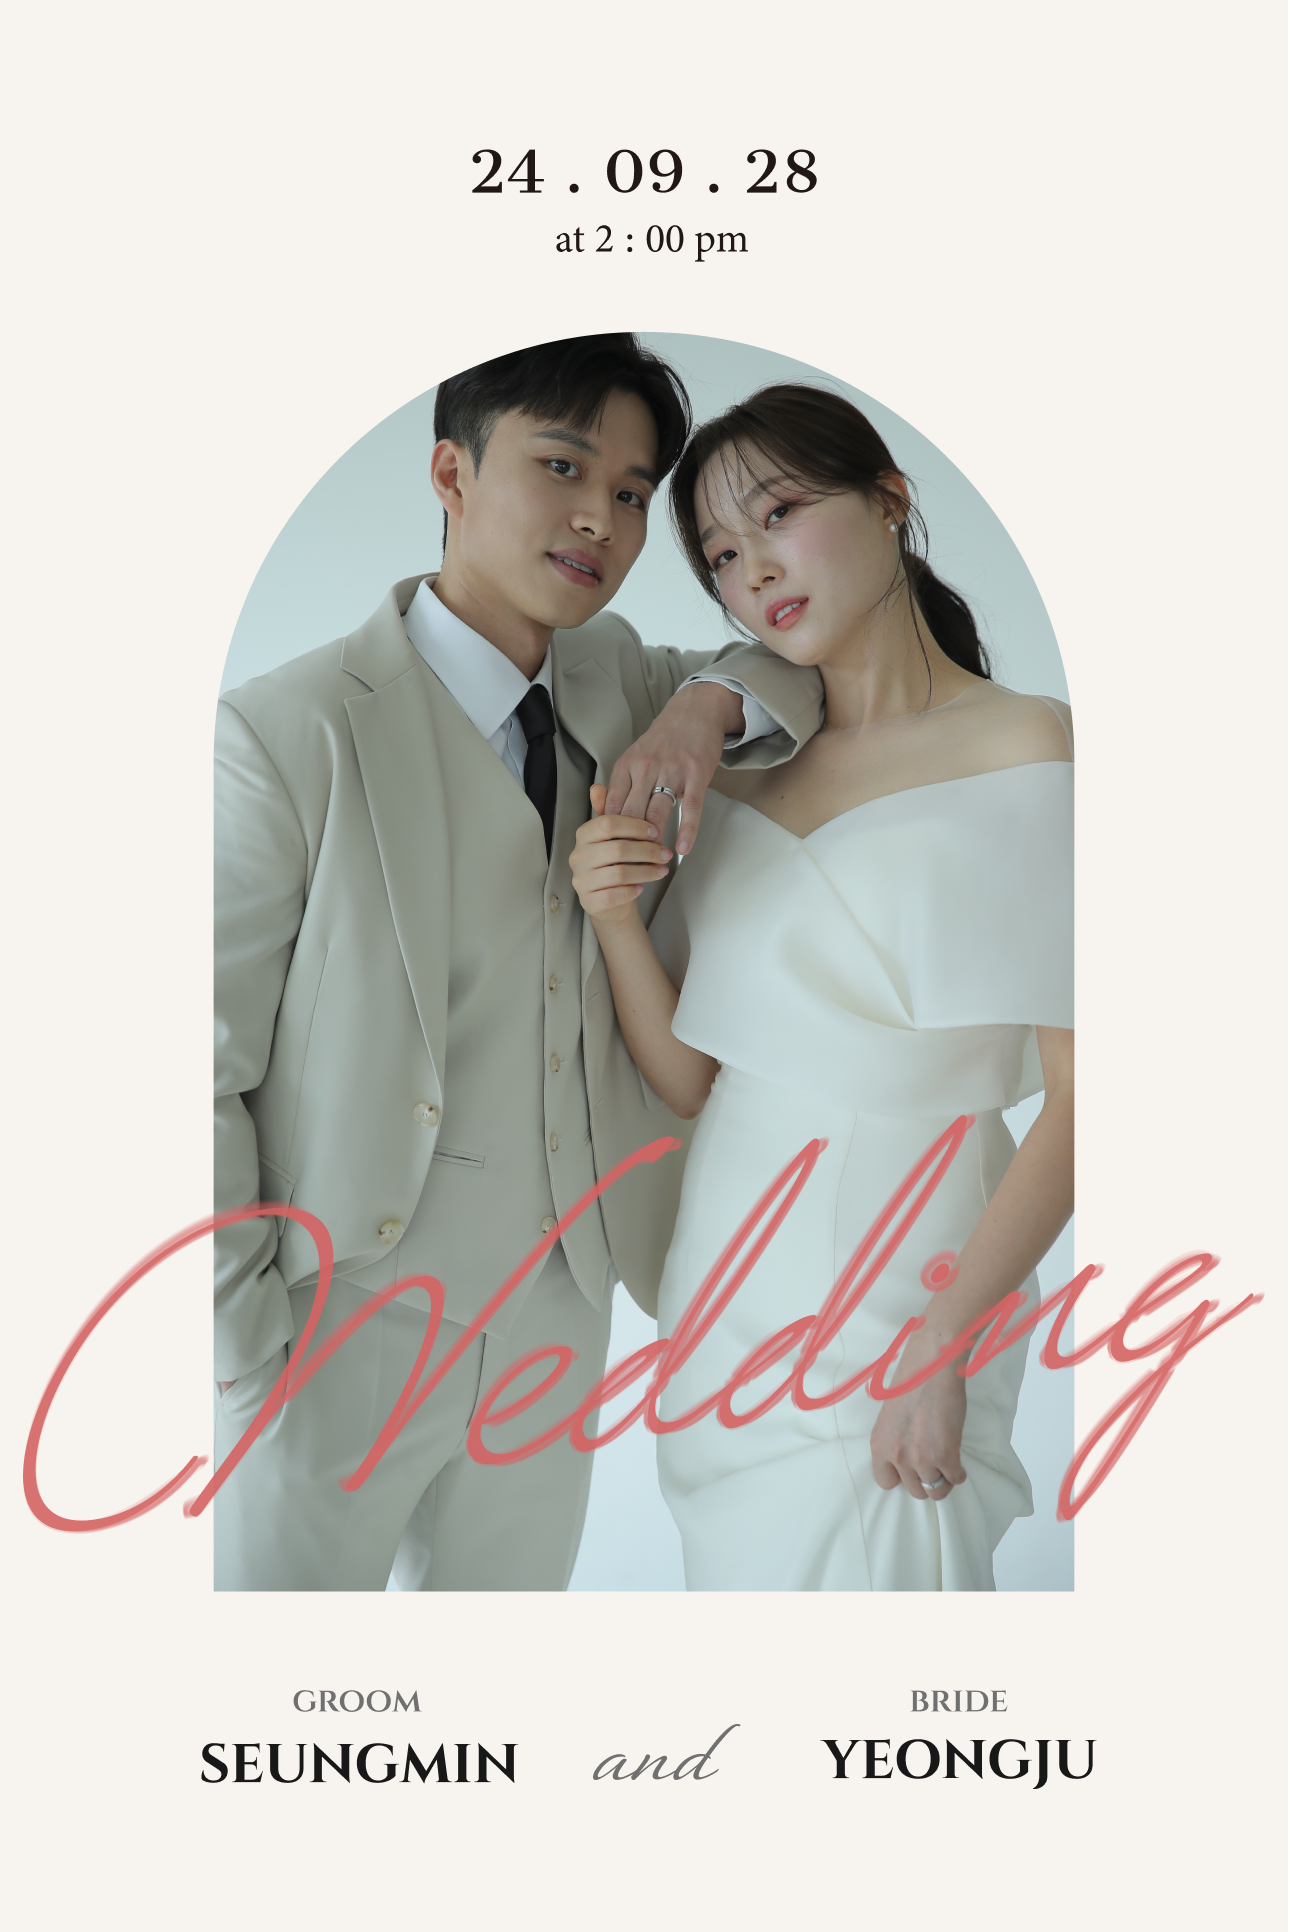
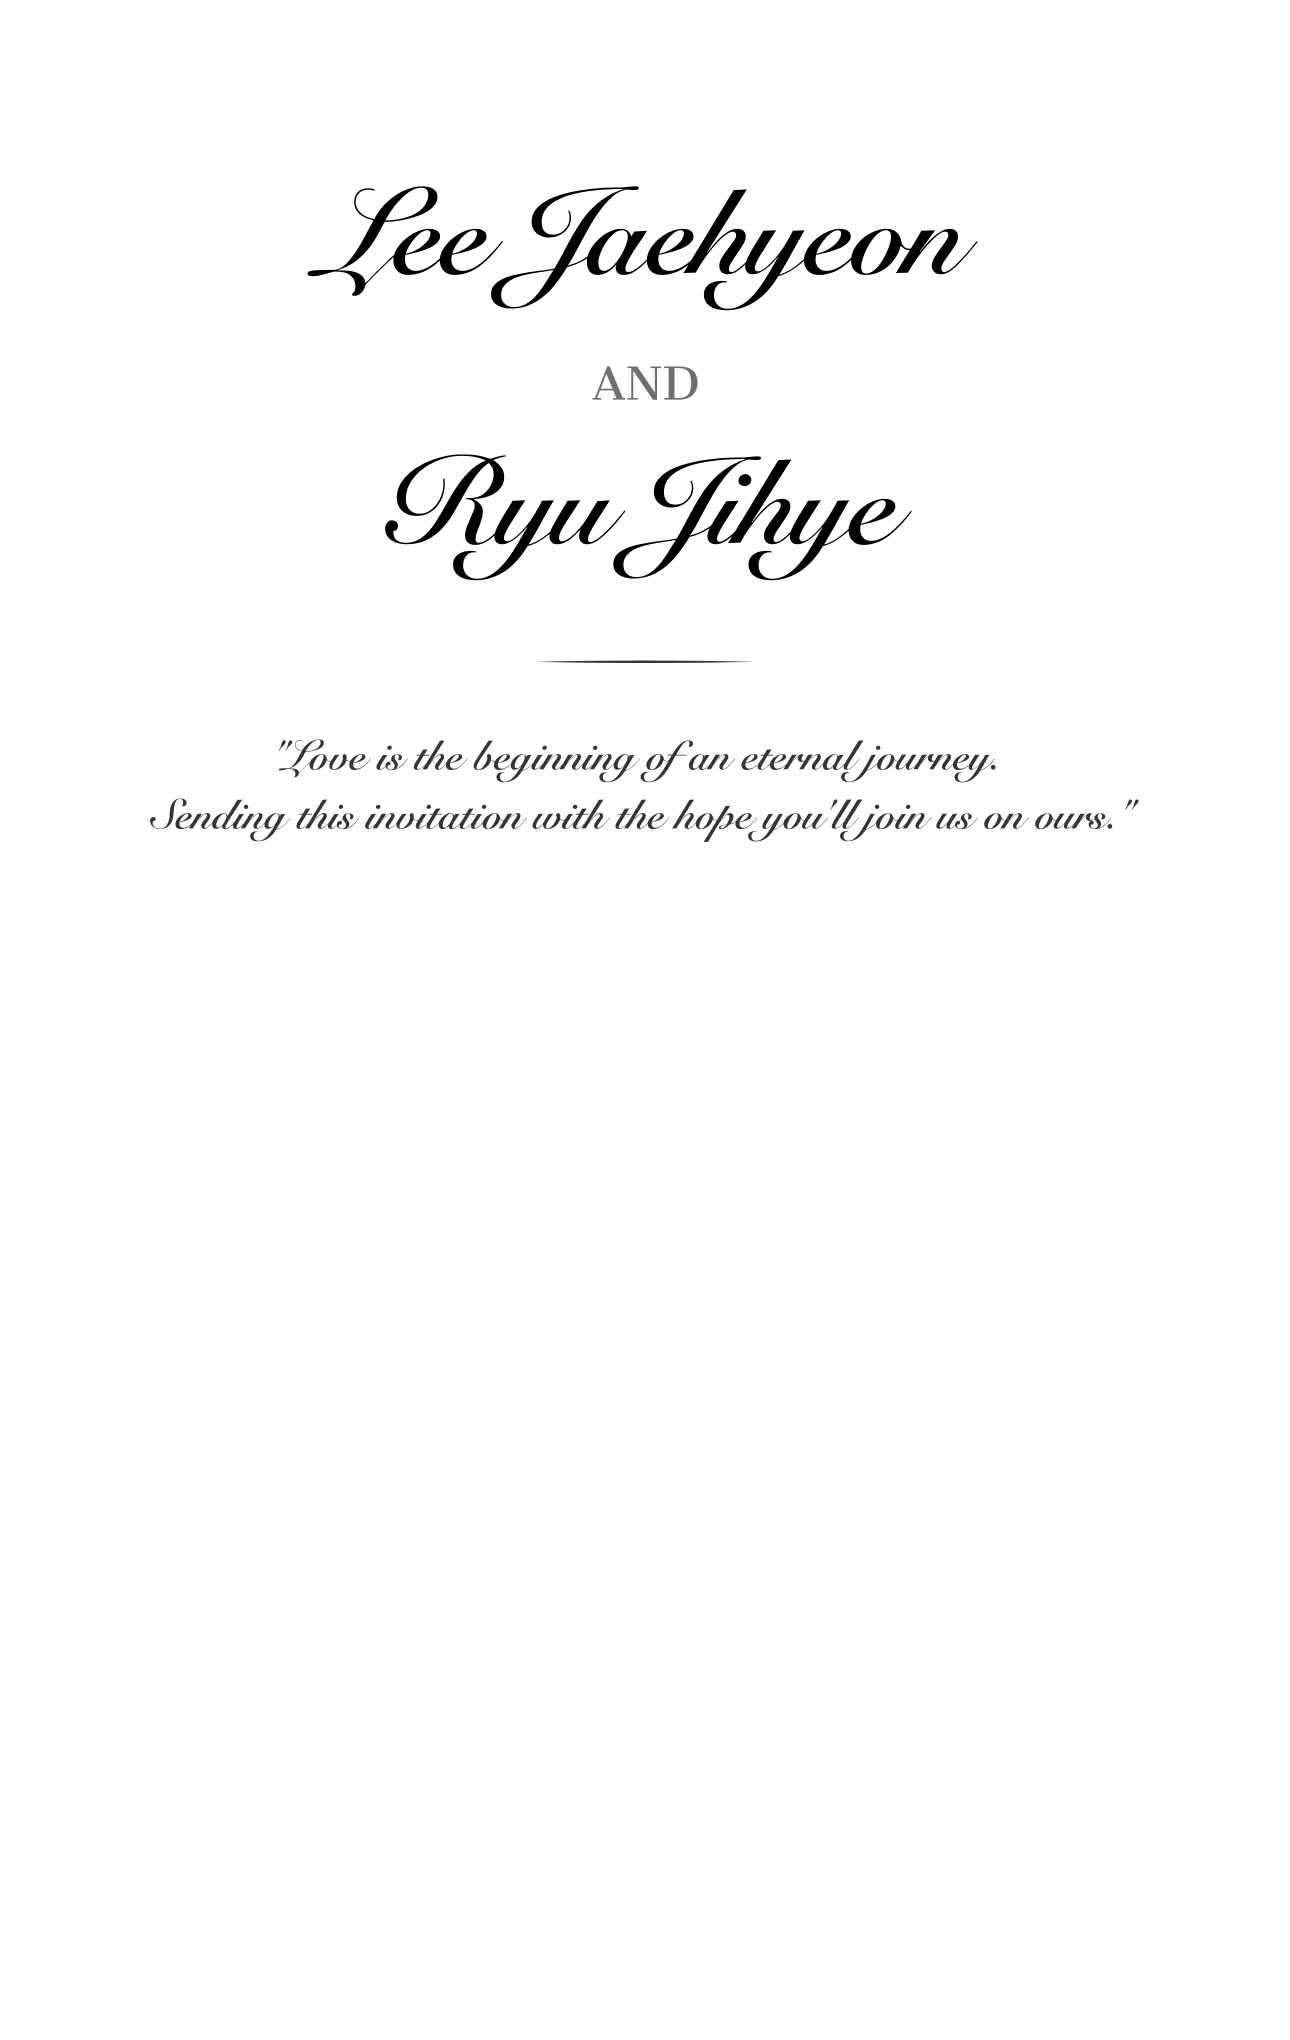
mo14

diff --git a/index.html b/index.html
@@ -5,19 +5,19 @@
   <meta charset="utf-8" />
   <link rel="icon" href="/img/heart_icon.png" />
   <meta name="viewport" content="width=device-width" />
-  <title>이재현 ♥ 박영주의 결혼식에 초대합니다.</title>
+  <title>이재현 ♥ 류지혜의 결혼식에 초대합니다.</title>
   <meta http-equiv="X-UA-Compatible" content="IE=edge, chrome=1" />
   <meta name="viewport"
     content="width=device-width,initial-scale=1.0,maximum-scale=1.0,minimum-scale=1.0,user-scalable=no,target-densitydpi=medium-dpi" />
   <meta name="robots" content="index,follow" />
   <meta name="googlebot" content="index,follow" />
   <meta name="description" content="결혼식에 초대합니다♡" />
-  <link rel="canonical" href="https://mo12.luvle.co.kr" />
-  <meta property="og:url" content="https://mo12.luvle.co.kr" />
-  <meta property="og:title" content="최승민 ♥ 박영주의 결혼식에 초대합니다." />
+  <link rel="canonical" href="https://mo14.luvle.co.kr" />
+  <meta property="og:url" content="https://mo14.luvle.co.kr" />
+  <meta property="og:title" content="이재현 ♥ 류지혜의 결혼식에 초대합니다." />
   <meta property="og:description" content="결혼식에 초대합니다♡" />
   <meta property="og:image" content="https://i.imgur.com/Id0xiK7.png" />
-  <meta property="og:site_name" content="최승민 ♥ 박영주의 결혼식에 초대합니다." />
+  <meta property="og:site_name" content="이재현 ♥ 류지혜의 결혼식에 초대합니다." />
   <script src="https://cdn.tailwindcss.com"></script>
   <link rel="stylesheet" type="text/css" href="style.css" />
   <link href="https://webfontworld.github.io/yangheeryu/GowunBatang.css" rel="stylesheet" />
@@ -85,16 +85,16 @@
               </div>
               <div style="line-height: 40px;">
                 <p id="parentInfo">
-                  <span style="font-size: large">최창순 · 김순희</span>
+                  <span style="font-size: large">이병권 · 하애경</span>
                   <span>
                     <span>의</span>
                     <span style="
                           font-size: large;
                           min-width: 3rem;
                           display: inline-block;
-                        ">아들</span>
+                        ">장남</span>
                   </span>
-                  <span style="font-size: large">최승민</span>
+                  <span style="font-size: large">이재현</span>
                   <span style="
                         font-size: large;
                         display: inline-block;
@@ -109,22 +109,22 @@
                     document
                       .getElementById("man-call-button")
                       .addEventListener("click", function () {
-                        var phoneNumber = "010-4931-4227";
+                        var phoneNumber = "010-8877-0196";
                         window.location.href = "tel:" + phoneNumber;
                       });
                   </script>
                 </p>
                 <p id="parentInfo">
-                  <span style="font-size: large">박형숙 · 김경미</span>
+                  <span style="font-size: large">류양열 · 김해숙</span>
                   <span>
                     <span>의</span>
                     <span style="
                           font-size: large;
                           min-width: 3rem;
                           display: inline-block;
-                        ">딸</span>
+                        ">장녀</span>
                   </span>
-                  <span style="font-size: large">박영주</span>
+                  <span style="font-size: large">류지혜</span>
                   <span style="
                         font-size: large;
                         display: inline-block;
@@ -139,7 +139,7 @@
                     document
                       .getElementById("woman-call-button")
                       .addEventListener("click", function () {
-                        var phoneNumber = "010-4046-4258";
+                        var phoneNumber = "010-9180-1690";
                         window.location.href = "tel:" + phoneNumber;
                       });
                   </script>
@@ -153,12 +153,12 @@
         <section id="gallerySection"> 
           <div id="galleryImages" class="gallery">
             <span style="
-            color: #D46363;
-            font-size: 10px;
+            color: #BDBDBD;
+            font-size: 12px;
             min-width: 3rem;
             display: inline-block;"><b>G A L L E R Y</b></span><br>
             <span style="
-            color: #655047;
+            color: #595959;
             font-size: 20px;
             min-width: 3rem;
             display: inline-block;"><b>우리의 순간</b></span>
@@ -207,7 +207,7 @@
                 <th>SEC</th>
               </tr>
               <tr>
-                <td id="daysLeft" style="color: #EE7474; font-weight: 600">
+                <td id="daysLeft" style="color: #FF9090; font-weight: 600">
                   119
                 </td>
                 <td>:</td>
@@ -231,7 +231,7 @@
           <div class="animate-on-scroll">
 
             <span style="
-            color: #374C6D;
+            color: #AAAAAA;
             font-size: 9px;
             min-width: 3rem;
             display: inline-block;"><b>L O C A T I O N</b></span>
@@ -251,21 +251,21 @@
                     text-align: center;
                     line-height: 1.5rem;
                   ">
-                <p>서울특별시 서초구 반포대로 235(효성빌딩)</p>
+                <p>서울시 마포구 월드컵로 240</p>
                 <p style="font-weight: 600; color: #000000">
-                  아펠가모 반포점 LL층 단독홀
+                  서울월드컵경기장 2층 월드컵컨벤션 그랜드볼룸
                 </p>
               </div>
               <div class="weddinghall-call-info">
                 <button id="weddingHallCallButton">
                   <img src="img/call.png" alt="전화" style="width: 10px; height: 10px" />
-                  <p id="weddingHallCallP">02 - 3431 - 0230</p>
+                  <p id="weddingHallCallP">02 - 3152 - 7700</p>
                 </button>
                 <script>
                   document
                     .getElementById("weddingHallCallButton")
                     .addEventListener("click", function () {
-                      var phoneNumber = "02-3431-0230";
+                      var phoneNumber = "02-3152-7700";
                       window.location.href = "tel:" + phoneNumber;
                     });
                 </script>
@@ -319,7 +319,7 @@
         </div>
 
         <!-- map 길찾기 -->
-        <div class="animate-on-scroll" id="MapIconDiv" style="background-color: #CD6867;">
+        <div class="animate-on-scroll" id="MapIconDiv" style="background-color: #7A7A7A;">
           <div>
             <a class="maplink" href="https://kko.to/kguiRX6Pmf">
               <div>
@@ -380,8 +380,7 @@
             </button>
             <div class="panel">
               <ul>
-                <li><strong>신랑 최승민 : </strong>국민은행 041301-04-281722</li>
-                <li><strong>혼주 최창순 : </strong>신한은행 110-002-315007</li>
+                <li><strong>신랑 이재현 : </strong>우리은행 1002-745-818851</li>
               </ul>
             </div>
             <button class="accordion relative">
@@ -390,9 +389,8 @@
             </button>
             <div class="panel">
               <ul>
-                <li><strong>신부 박영주 : </strong>국민은행 788102-01-083962</li>
-                <li><strong>혼주 박형숙 : </strong>농협은행 611041-56-000492</li>
-                <li><strong>혼주 김경미 : </strong>농협은행 352-0391-5748-33</li>
+                <li><strong>신부 류지혜 : </strong>기업은행 229-099122-01-011</li>
+      
                 <!-- <li>
                   <strong>신부 아버지</strong><br />농협 301819-52-029714
                   (오석기)

diff --git a/gallery.js b/gallery.js
@@ -46,22 +46,22 @@ window.onload = () => {
     Kakao.Share.sendDefault({
       objectType: "feed",
       content: {
-        title: "최승민 ♥ 박영주의 모바일 청첩장",
+        title: "이재현 ♥ 류지혜의 모바일 청첩장",
         description: "결혼식에 초대합니다♡",
         imageUrl: "https://i.imgur.com/Id0xiK7.png",
         imageWidth: 1200,
         imageHeight: 630,
         link: {
-          mobileWebUrl: "https://mo12.luvle.co.kr",
-          webUrl: "https://mo12.luvle.co.kr",
+          mobileWebUrl: "https://mo14.luvle.co.kr",
+          webUrl: "https://mo14.luvle.co.kr",
         },
       },
       buttons: [
         {
           title: "자세히 보기",
           link: {
-            mobileWebUrl: "https://mo12.luvle.co.kr",
-            webUrl: "https://mo12.luvle.co.kr",
+            mobileWebUrl: "https://mo14.luvle.co.kr",
+            webUrl: "https://mo14.luvle.co.kr",
           },
         },
       ],

diff --git a/newGallery.js b/newGallery.js
@@ -45,22 +45,22 @@ window.onload = () => {
     Kakao.Share.sendDefault({
       objectType: "feed",
       content: {
-        title: "최승민 ♥ 박영주의 모바일 청첩장",
+        title: "이재현 ♥ 류지혜의 모바일 청첩장",
         description: "결혼식에 초대합니다♡",
         imageUrl: "https://i.imgur.com/Id0xiK7.png",
         imageWidth: 1200,
         imageHeight: 630,
         link: {
-          mobileWebUrl: "https://mo12.luvle.co.kr",
-          webUrl: "https://mo12.luvle.co.kr",
+          mobileWebUrl: "https://mo14.luvle.co.kr",
+          webUrl: "https://mo14.luvle.co.kr",
         },
       },
       buttons: [
         {
           title: "자세히 보기",
           link: {
-            mobileWebUrl: "https://mo12.luvle.co.kr",
-            webUrl: "https://mo12.luvle.co.kr",
+            mobileWebUrl: "https://mo14.luvle.co.kr",
+            webUrl: "https://mo14.luvle.co.kr",
           },
         },
       ],

diff --git a/style.css b/style.css
@@ -34,7 +34,7 @@ body {
   right: 2rem;
   width: 13px;
   height: 10px;
-  background-image: url("./img/arrow.png");
+  background-image: url("./img/arrow_w.png");
   background-size: cover;
 }
 
@@ -102,7 +102,7 @@ body {
 }
 
 #gallerySection {
-  background-color: #F7F3F3;
+  background-color: #F5F5F6;
   padding-top: 20%;
 }
 
@@ -209,7 +209,7 @@ body {
 }
 
 .countdownTimeInfo {
-  color: #EE7474;
+  color: #FF9090;
   font-weight: 600;
 }
 
@@ -251,7 +251,7 @@ body {
 
 #locationSection {
   margin-top: 3%;
-  background-color: #F7F3F3;
+  background-color: #F5F5F6;
   height: 265px;
 }
 
@@ -316,8 +316,8 @@ main {
 }
 
 .accordion {
-  background-color: #F7F3F3;
-  color: black;
+  background-color: #989898;
+  color: rgb(255, 255, 255);
   cursor: pointer;
   padding: 0.8rem;
   width: 100%;
@@ -408,7 +408,7 @@ main {
 }
 
 #kakaoMapButton {
-  background-color: #CD6867;
+  background-color: #7A7A7A;
   padding: 10px;
   text-align: center;
   width: auto;

diff --git a/countdown.js b/countdown.js
@@ -1,7 +1,7 @@
 document.addEventListener("DOMContentLoaded", function () {
   function updateCountdown() {
     // 결혼 날짜 설정 (년, 월(0부터 시작), 일, 시, 분)
-    const weddingDate = new Date(2024, 8, 28, 14, 00); // 예시: 2024년 10월 12일
+    const weddingDate = new Date(2024, 9, 13, 14, 10); // 예시: 2024년 10월 12일
 
     const currentDate = new Date();
     const timeDifference = weddingDate - currentDate;
